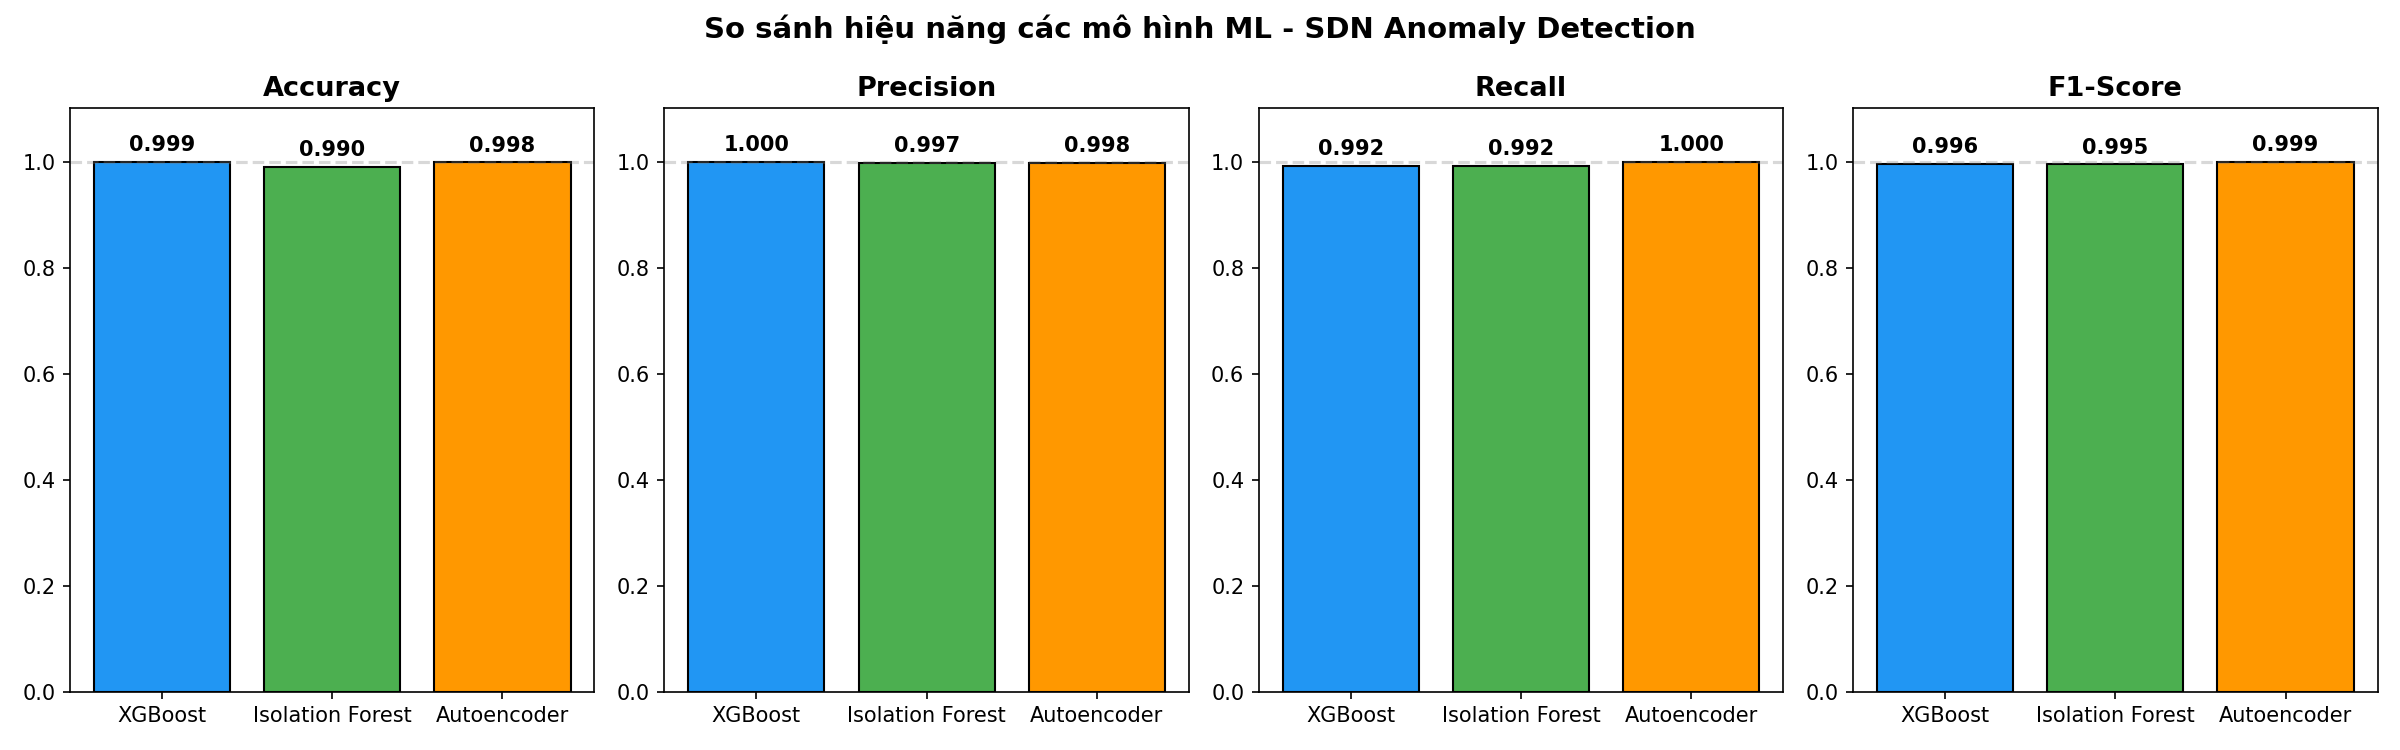
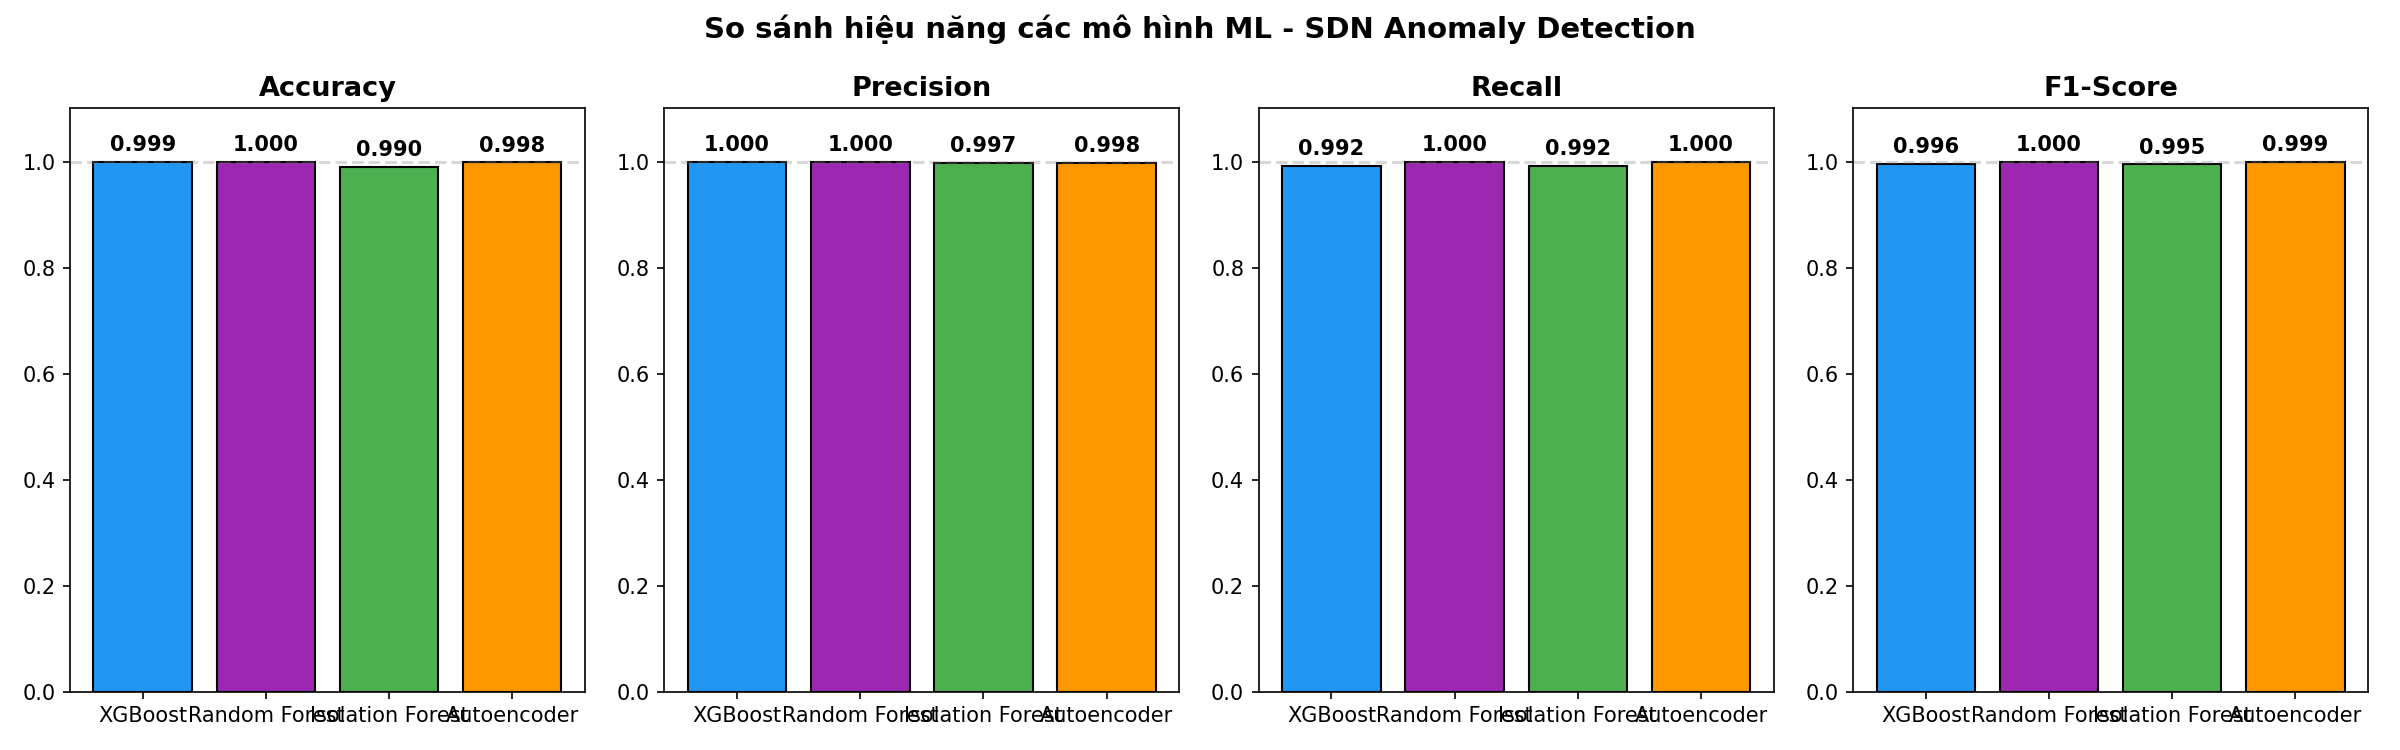
Add Random Forest baseline and timing metrics for thesis comparison.

diff --git a/src/train_random_forest.py b/src/train_random_forest.py
@@ -1,0 +1,198 @@
+"""
+Huấn luyện Random Forest (supervised multiclass) để so sánh với XGBoost.
+
+Input:  dataset/train.csv, dataset/test.csv
+Output:
+  models/random_forest_model.pkl
+  reports/confusion_matrix_random_forest.png
+  reports/feature_importance_random_forest.png
+  reports/random_forest_metrics.csv
+
+Chạy: python src/train_random_forest.py
+"""
+
+import os
+import sys
+import time
+
+import joblib
+import matplotlib.pyplot as plt
+import numpy as np
+import pandas as pd
+import seaborn as sns
+from sklearn.ensemble import RandomForestClassifier
+from sklearn.metrics import (
+    accuracy_score,
+    classification_report,
+    confusion_matrix,
+    f1_score,
+    precision_score,
+    recall_score,
+)
+from sklearn.preprocessing import StandardScaler
+
+BASE_DIR = os.path.dirname(os.path.dirname(os.path.abspath(__file__)))
+DATASET_DIR = os.path.join(BASE_DIR, 'dataset')
+MODELS_DIR = os.path.join(BASE_DIR, 'models')
+REPORTS_DIR = os.path.join(BASE_DIR, 'reports')
+
+TRAIN_CSV = os.path.join(DATASET_DIR, 'train.csv')
+TEST_CSV = os.path.join(DATASET_DIR, 'test.csv')
+LABEL_NAMES = ['ddos', 'normal', 'portscan']
+
+
+def load_train_test():
+    if not os.path.exists(TRAIN_CSV) or not os.path.exists(TEST_CSV):
+        print('[!] Train/Test files not found. Run preprocess.py first.')
+        sys.exit(1)
+
+    train_df = pd.read_csv(TRAIN_CSV)
+    test_df = pd.read_csv(TEST_CSV)
+    X_train = train_df.drop('label', axis=1)
+    y_train = train_df['label']
+    X_test = test_df.drop('label', axis=1)
+    y_test = test_df['label']
+    print(f'[*] Train: {X_train.shape}, Test: {X_test.shape}')
+    return X_train, X_test, y_train, y_test
+
+
+def main():
+    print('=' * 60)
+    print('  Random Forest Training - SDN Anomaly Detection')
+    print('=' * 60)
+
+    X_train, X_test, y_train, y_test = load_train_test()
+
+    # Dùng scaler riêng cho RF (không đụng scaler XGBoost realtime)
+    scaler = StandardScaler()
+    X_train_s = pd.DataFrame(scaler.fit_transform(X_train), columns=X_train.columns)
+    X_test_s = pd.DataFrame(scaler.transform(X_test), columns=X_test.columns)
+
+    model = RandomForestClassifier(
+        n_estimators=200,
+        max_depth=12,
+        min_samples_split=4,
+        min_samples_leaf=2,
+        class_weight='balanced_subsample',
+        random_state=42,
+        n_jobs=-1,
+    )
+
+    t0 = time.perf_counter()
+    model.fit(X_train_s, y_train)
+    train_sec = time.perf_counter() - t0
+
+    t1 = time.perf_counter()
+    y_pred = model.predict(X_test_s)
+    predict_batch_sec = time.perf_counter() - t1
+
+    # Inference latency: trung bình 1000 lần predict 1 mẫu
+    sample = X_test_s.iloc[:1]
+    # warmup
+    model.predict(sample)
+    t2 = time.perf_counter()
+    n_runs = 1000
+    for _ in range(n_runs):
+        model.predict(sample)
+    infer_ms = (time.perf_counter() - t2) * 1000.0 / n_runs
+
+    acc = accuracy_score(y_test, y_pred)
+    prec = precision_score(y_test, y_pred, average='macro', zero_division=0)
+    rec = recall_score(y_test, y_pred, average='macro', zero_division=0)
+    f1 = f1_score(y_test, y_pred, average='macro', zero_division=0)
+
+    print('\n' + '=' * 60)
+    print('  RANDOM FOREST RESULTS')
+    print('=' * 60)
+    print(f'  Accuracy:          {acc:.6f}')
+    print(f'  Precision (macro): {prec:.6f}')
+    print(f'  Recall (macro):    {rec:.6f}')
+    print(f'  F1-Score (macro):  {f1:.6f}')
+    print(f'  Train time:        {train_sec:.3f}s')
+    print(f'  Predict (test):    {predict_batch_sec:.3f}s')
+    print(f'  Inference/sample:  {infer_ms:.3f} ms')
+    print('=' * 60)
+    print('\nClassification Report:')
+    print(classification_report(y_test, y_pred, target_names=LABEL_NAMES, digits=4))
+
+    os.makedirs(REPORTS_DIR, exist_ok=True)
+    os.makedirs(MODELS_DIR, exist_ok=True)
+
+    # Confusion matrix
+    cm = confusion_matrix(y_test, y_pred)
+    plt.figure(figsize=(8, 6))
+    sns.heatmap(cm, annot=True, fmt='d', cmap='Blues',
+                xticklabels=LABEL_NAMES, yticklabels=LABEL_NAMES)
+    plt.title('Confusion Matrix - Random Forest')
+    plt.xlabel('Predicted')
+    plt.ylabel('Actual')
+    plt.tight_layout()
+    cm_path = os.path.join(REPORTS_DIR, 'confusion_matrix_random_forest.png')
+    plt.savefig(cm_path, dpi=150)
+    plt.close()
+    print(f'[✓] Saved: {cm_path}')
+
+    # Feature importance
+    importance = model.feature_importances_
+    indices = np.argsort(importance)[::-1]
+    plt.figure(figsize=(10, 6))
+    plt.title('Feature Importance - Random Forest')
+    plt.bar(range(len(importance)), importance[indices], align='center')
+    plt.xticks(
+        range(len(importance)),
+        [X_train.columns[i] for i in indices],
+        rotation=45,
+        ha='right',
+    )
+    plt.xlabel('Features')
+    plt.ylabel('Importance')
+    plt.tight_layout()
+    fi_path = os.path.join(REPORTS_DIR, 'feature_importance_random_forest.png')
+    plt.savefig(fi_path, dpi=150)
+    plt.close()
+    print(f'[✓] Saved: {fi_path}')
+
+    metrics = {
+        'Model': 'Random Forest',
+        'Approach': 'Supervised',
+        'Classification': 'Multiclass',
+        'Accuracy': acc,
+        'Precision': prec,
+        'Recall': rec,
+        'F1-Score': f1,
+        'Train_Time_sec': train_sec,
+        'Predict_Test_sec': predict_batch_sec,
+        'Inference_ms_per_sample': infer_ms,
+    }
+    metrics_df = pd.DataFrame([metrics])
+    metrics_path = os.path.join(REPORTS_DIR, 'random_forest_metrics.csv')
+    metrics_df.to_csv(metrics_path, index=False)
+    print(f'[✓] Saved: {metrics_path}')
+
+    # Per-class report for Word
+    report_dict = classification_report(
+        y_test, y_pred, target_names=LABEL_NAMES, digits=4, output_dict=True
+    )
+    rows = []
+    for cls in LABEL_NAMES:
+        rows.append({
+            'Class': cls,
+            'Precision': report_dict[cls]['precision'],
+            'Recall': report_dict[cls]['recall'],
+            'F1-Score': report_dict[cls]['f1-score'],
+            'Support': int(report_dict[cls]['support']),
+        })
+    pd.DataFrame(rows).to_csv(
+        os.path.join(REPORTS_DIR, 'random_forest_classification_report.csv'),
+        index=False,
+    )
+    print('[✓] Saved: reports/random_forest_classification_report.csv')
+
+    joblib.dump(model, os.path.join(MODELS_DIR, 'random_forest_model.pkl'))
+    joblib.dump(scaler, os.path.join(MODELS_DIR, 'random_forest_scaler.pkl'))
+    print('[✓] Saved model + scaler')
+    print('\n[✓] Random Forest training complete!')
+
+
+if __name__ == '__main__':
+    main()

diff --git a/src/benchmark_timing.py b/src/benchmark_timing.py
@@ -1,0 +1,118 @@
+"""
+Benchmark thời gian train/inference cho các mô hình (phục vụ bảng khóa luận).
+
+Chạy: python src/benchmark_timing.py
+Output: reports/model_timing.csv
+"""
+
+import os
+import time
+
+import joblib
+import numpy as np
+import pandas as pd
+from sklearn.ensemble import IsolationForest, RandomForestClassifier
+from sklearn.preprocessing import StandardScaler
+from xgboost import XGBClassifier
+
+BASE_DIR = os.path.dirname(os.path.dirname(os.path.abspath(__file__)))
+DATASET_DIR = os.path.join(BASE_DIR, 'dataset')
+MODELS_DIR = os.path.join(BASE_DIR, 'models')
+REPORTS_DIR = os.path.join(BASE_DIR, 'reports')
+
+
+def latency_ms(predict_fn, n=1000):
+    predict_fn()  # warmup
+    t0 = time.perf_counter()
+    for _ in range(n):
+        predict_fn()
+    return (time.perf_counter() - t0) * 1000.0 / n
+
+
+def main():
+    train_df = pd.read_csv(os.path.join(DATASET_DIR, 'train.csv'))
+    test_df = pd.read_csv(os.path.join(DATASET_DIR, 'test.csv'))
+    X_train = train_df.drop('label', axis=1)
+    y_train = train_df['label']
+    X_test = test_df.drop('label', axis=1)
+    y_test = test_df['label']
+
+    rows = []
+
+    # --- XGBoost (retrain timed; reuse saved if prefer loaded predict) ---
+    scaler = StandardScaler()
+    Xtr = scaler.fit_transform(X_train)
+    Xte = scaler.transform(X_test)
+    xgb = XGBClassifier(
+        n_estimators=200, max_depth=6, learning_rate=0.1,
+        subsample=0.8, colsample_bytree=0.8, random_state=42,
+        use_label_encoder=False, eval_metric='mlogloss',
+    )
+    t0 = time.perf_counter()
+    xgb.fit(Xtr, y_train)
+    xgb_train = time.perf_counter() - t0
+    sample = Xte[:1]
+    xgb_inf = latency_ms(lambda: xgb.predict(sample))
+    rows.append({'Model': 'XGBoost', 'Train_Time_sec': xgb_train, 'Inference_ms': xgb_inf})
+
+    # --- Random Forest ---
+    rf_path = os.path.join(MODELS_DIR, 'random_forest_model.pkl')
+    rf_scaler_path = os.path.join(MODELS_DIR, 'random_forest_scaler.pkl')
+    if os.path.exists(rf_path):
+        rf = joblib.load(rf_path)
+        rf_scaler = joblib.load(rf_scaler_path)
+        Xte_rf = rf_scaler.transform(X_test)
+        # train time from metrics csv if available
+        metrics_path = os.path.join(REPORTS_DIR, 'random_forest_metrics.csv')
+        if os.path.exists(metrics_path):
+            rf_train = float(pd.read_csv(metrics_path).iloc[0]['Train_Time_sec'])
+        else:
+            rf_train = float('nan')
+        rf_inf = latency_ms(lambda: rf.predict(Xte_rf[:1]))
+        rows.append({'Model': 'Random Forest', 'Train_Time_sec': rf_train, 'Inference_ms': rf_inf})
+
+    # --- Isolation Forest (load) ---
+    if_path = os.path.join(MODELS_DIR, 'isolation_forest_model.pkl')
+    if_scaler_path = os.path.join(MODELS_DIR, 'isolation_forest_scaler.pkl')
+    if os.path.exists(if_path):
+        iff = joblib.load(if_path)
+        if_scaler = joblib.load(if_scaler_path)
+        Xte_if = if_scaler.transform(X_test)
+        t0 = time.perf_counter()
+        # approximate retrain timing for table
+        tmp = IsolationForest(n_estimators=200, contamination=0.05, random_state=42, n_jobs=-1)
+        # train on normal-ish: use all train scaled like existing pipeline
+        Xtr_if = if_scaler.transform(X_train)
+        tmp.fit(Xtr_if)
+        if_train = time.perf_counter() - t0
+        if_inf = latency_ms(lambda: iff.predict(Xte_if[:1]))
+        rows.append({'Model': 'Isolation Forest', 'Train_Time_sec': if_train, 'Inference_ms': if_inf})
+
+    # --- Autoencoder (load predict only; train time from optional env) ---
+    ae_path = os.path.join(MODELS_DIR, 'autoencoder_model.keras')
+    ae_scaler_path = os.path.join(MODELS_DIR, 'autoencoder_scaler.pkl')
+    if os.path.exists(ae_path):
+        try:
+            from tensorflow import keras
+        except Exception:
+            import tf_keras as keras
+        ae = keras.models.load_model(ae_path)
+        ae_scaler = joblib.load(ae_scaler_path)
+        Xte_ae = ae_scaler.transform(X_test)[:1]
+
+        def ae_predict():
+            ae.predict(Xte_ae, verbose=0)
+
+        ae_inf = latency_ms(ae_predict, n=100)
+        rows.append({'Model': 'Autoencoder', 'Train_Time_sec': float('nan'), 'Inference_ms': ae_inf})
+
+    df = pd.DataFrame(rows)
+    os.makedirs(REPORTS_DIR, exist_ok=True)
+    out = os.path.join(REPORTS_DIR, 'model_timing.csv')
+    df.to_csv(out, index=False)
+    print(df.to_string(index=False))
+    print(f'\n[✓] Saved: {out}')
+
+
+if __name__ == '__main__':
+    main()

diff --git a/src/compare_models.py b/src/compare_models.py
@@ -60,6 +60,30 @@ def evaluate_xgboost(X_test, y_test):
     }
 
 
+def evaluate_random_forest(X_test, y_test):
+    """Evaluate Random Forest (multiclass)."""
+    model_path = os.path.join(MODELS_DIR, 'random_forest_model.pkl')
+    scaler_path = os.path.join(MODELS_DIR, 'random_forest_scaler.pkl')
+
+    if not os.path.exists(model_path):
+        return None
+
+    model = joblib.load(model_path)
+    scaler = joblib.load(scaler_path)
+    X_scaled = pd.DataFrame(scaler.transform(X_test), columns=X_test.columns)
+    y_pred = model.predict(X_scaled)
+
+    return {
+        'Model': 'Random Forest',
+        'Approach': 'Supervised',
+        'Classification': 'Multiclass',
+        'Accuracy': accuracy_score(y_test, y_pred),
+        'Precision': precision_score(y_test, y_pred, average='macro', zero_division=0),
+        'Recall': recall_score(y_test, y_pred, average='macro', zero_division=0),
+        'F1-Score': f1_score(y_test, y_pred, average='macro', zero_division=0),
+    }
+
+
 def evaluate_isolation_forest(X_test, y_test):
     """Evaluate Isolation Forest (binary)."""
     model_path = os.path.join(MODELS_DIR, 'isolation_forest_model.pkl')
@@ -163,6 +187,12 @@ def main():
         results.append(r)
         print(f"    Accuracy={r['Accuracy']:.4f}, F1={r['F1-Score']:.4f}")
 
+    print("[*] Evaluating Random Forest...")
+    r = evaluate_random_forest(X_test, y_test)
+    if r:
+        results.append(r)
+        print(f"    Accuracy={r['Accuracy']:.4f}, F1={r['F1-Score']:.4f}")
+
     print("[*] Evaluating Isolation Forest...")
     r = evaluate_isolation_forest(X_test, y_test)
     if r:
@@ -196,7 +226,7 @@ def main():
 
     fig, axes = plt.subplots(1, len(metrics), figsize=(16, 5))
 
-    colors = ['#2196F3', '#4CAF50', '#FF9800']
+    colors = ['#2196F3', '#9C27B0', '#4CAF50', '#FF9800']
 
     for i, metric in enumerate(metrics):
         values = df_results[metric].tolist()
